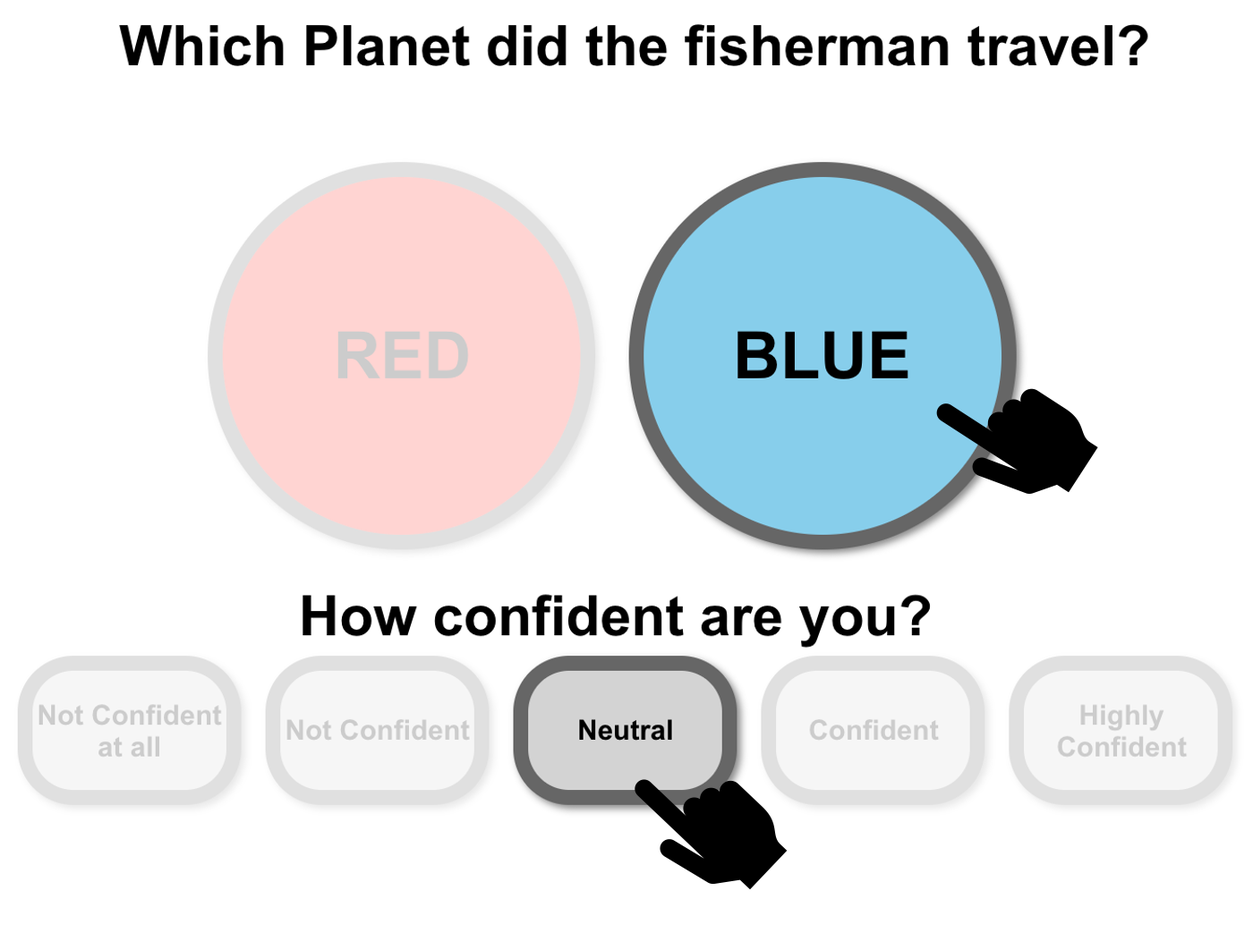
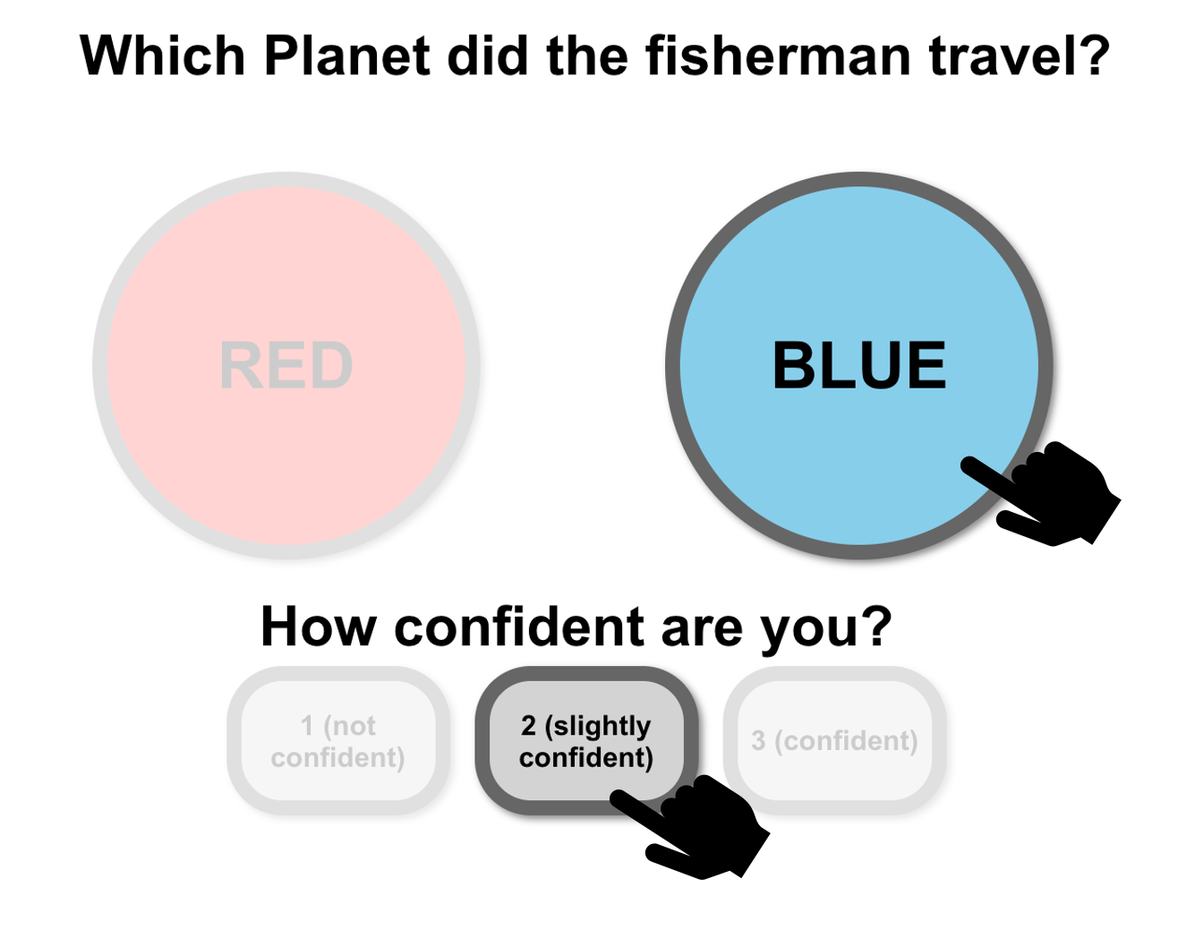
updates

diff --git a/client/src/components/GameFrame/GameFrame.js b/client/src/components/GameFrame/GameFrame.js
@@ -5,23 +5,31 @@ import Button from '../../components/Button/Button';
 import Action from '../Action/Action';
 import Scores from '../Scores/Scores';
 import classes from './GameFrame.module.css';
-
+import blueFishImage from '../../static/images/blue_fish.png';
+import redFishImage from '../../static/images/red_fish.png';
     
 
 
 const GameFrame = props => {
 
     
+
+    
     const colors = {red: 'RED', deepskyblue: 'BLUE'};
     const dispatch = useDispatch();
     const scenario = useSelector(state => state.conditionData.conditionData[state.conditionData.conditionNumber]);
+    const fish = scenario.targetBelief;
 
+    const displayFish = {'red': ['', 'none'],
+                         'deepskyblue': ['none', '']};
 
     const setColors = () => {
         setColorB(scenario.neighbourBeliefs.a[scoreCounter]);
         setColorC(scenario.neighbourBeliefs.b[scoreCounter]);
-        setColorMessageB(colors[scenario.neighbourBeliefs.a[scoreCounter]]);
-        setColorMessageC(colors[scenario.neighbourBeliefs.b[scoreCounter]]);
+        // setOpacityB(scenario.neighbourBeliefs.ac[scoreCounter]);
+        // setOpacityC(scenario.neighbourBeliefs.bc[scoreCounter]);
+        setColorMessageB(scenario.neighbourBeliefs.ac[scoreCounter]);
+        setColorMessageC(scenario.neighbourBeliefs.bc[scoreCounter]);
         setDisplayObserve('none');
         setDisplayNext('');
     };
@@ -29,6 +37,8 @@ const GameFrame = props => {
     const resetColors = () => {
         setColorB('lightgrey');
         setColorC('lightgrey');
+        setOpacityB(1);
+        setOpacityC(1);
         setColorMessageB('?')
         setColorMessageC('?')
         setDisplayObserve('')
@@ -73,6 +83,8 @@ const GameFrame = props => {
 
     const [colorB, setColorB] = useState('lightgrey')
     const [colorC, setColorC] = useState('lightgrey')
+    const [opacityB, setOpacityB] = useState(1)
+    const [opacityC, setOpacityC] = useState(1)
     const [sayColorB, setColorMessageB] = useState('?')
     const [sayColorC, setColorMessageC] = useState('?')
     const [displayObserve, setDisplayObserve] = useState('true')
@@ -140,9 +152,22 @@ const GameFrame = props => {
              {props.children}
             {/* game interface */}
             <Agent width={'400px'} agent_id="instr_frame" >BELIEFS OF VILLAGERS</Agent> 
-            
+
+            {/* legend */}
+            <Agent width={'200px'} top={'40%'} left={'2%'} agent_id="legend" >LEGEND:</Agent> 
+            <Agent width={'200px'} top={'45%'} left={'2%'} agent_id="legend" >1: not confident</Agent> 
+            <Agent width={'200px'} top={'50%'} left={'2%'} agent_id="legend" >2: slightly confident</Agent> 
+            <Agent width={'200px'} top={'55%'} left={'2%'} agent_id="legend" >3: confident</Agent> 
+            <Agent width={'200px'} top={'65%'} left={'2%'} agent_id="legend" >YOUR FISH:</Agent> 
+            <Agent width={'100px'} top={'66.5%'} left={'8%'} agent_id="Fish" display={displayFish[fish][0]}>
+            <img position={'absolute'} left={'80%'} top={'50%'} height={'50px'} src={redFishImage} alt="fish"/>
+            </Agent>
+            <Agent width={'100px'} top={'66.5%'} left={'8%'} agent_id="Fish" display={displayFish[fish][1]}>
+            <img position={'absolute'} left={'80%'} top={'50%'} height={'50px'} src={blueFishImage} alt="fish"/>
+            </Agent>
+
             {/* agent B */}
-            <Agent color={colorB} agent_id="B_2">{sayColorB}</Agent>
+            <Agent color={colorB}  agent_id="B_2">{sayColorB}</Agent>
             <Agent agent_id="B_2name">{scenario.neighbour1Name.name}</Agent>
 
             
@@ -156,30 +181,30 @@ const GameFrame = props => {
             <Scores score_id="C_name" >{scenario.neighbour2Name.name}</Scores>
 
             {/* B Scores */}
-            <Scores background={scenario.neighbourBeliefs.a[0]} id="B1" score_id="B1" display={displayB1}></Scores> 
-            <Scores background={scenario.neighbourBeliefs.a[1]} id="B2" score_id="B1" display={displayB2}  top={'17%'} ></Scores> 
-            <Scores background={scenario.neighbourBeliefs.a[2]} id="B3" score_id="B1" display={displayB3} top={'24%'} ></Scores>  
-            <Scores background={scenario.neighbourBeliefs.a[3]} id="B4" score_id="B1" display={displayB4} top={'31%'} ></Scores> 
-            <Scores background={scenario.neighbourBeliefs.a[4]} id="B5" score_id="B1" display={displayB5} top={'39%'} ></Scores> 
-            <Scores background={scenario.neighbourBeliefs.a[5]} id="B6" score_id="B1" display={displayB6} top={'46%'} ></Scores> 
-            <Scores background={scenario.neighbourBeliefs.a[6]} id="B7" score_id="B1" display={displayB7} top={'53%'} ></Scores> 
-            <Scores background={scenario.neighbourBeliefs.a[7]} id="B8" score_id="B1" display={displayB8} top={'60%'} ></Scores> 
-            <Scores background={scenario.neighbourBeliefs.a[8]} id="B9" score_id="B1" display={displayB9} top={'67%'} ></Scores> 
-            <Scores background={scenario.neighbourBeliefs.a[9]} id="B10" score_id="B1" display={displayB10} top={'74%'} ></Scores> 
+            <Scores background={scenario.neighbourBeliefs.a[0]} id="B1" score_id="B1" display={displayB1}>{scenario.neighbourBeliefs.ac[0].toString()}</Scores> 
+            <Scores background={scenario.neighbourBeliefs.a[1]} id="B2" score_id="B1" display={displayB2}  top={'17%'} >{scenario.neighbourBeliefs.ac[1].toString()}</Scores> 
+            <Scores background={scenario.neighbourBeliefs.a[2]} id="B3" score_id="B1" display={displayB3} top={'24%'} >{scenario.neighbourBeliefs.ac[2].toString()}</Scores>  
+            <Scores background={scenario.neighbourBeliefs.a[3]} id="B4" score_id="B1" display={displayB4} top={'31%'} >{scenario.neighbourBeliefs.ac[3].toString()}</Scores> 
+            <Scores background={scenario.neighbourBeliefs.a[4]} id="B5" score_id="B1" display={displayB5} top={'39%'} >{scenario.neighbourBeliefs.ac[4].toString()}</Scores> 
+            <Scores background={scenario.neighbourBeliefs.a[5]} id="B6" score_id="B1" display={displayB6} top={'46%'} >{scenario.neighbourBeliefs.ac[5].toString()}</Scores> 
+            <Scores background={scenario.neighbourBeliefs.a[6]} id="B7" score_id="B1" display={displayB7} top={'53%'} >{scenario.neighbourBeliefs.ac[6].toString()}</Scores> 
+            <Scores background={scenario.neighbourBeliefs.a[7]} id="B8" score_id="B1" display={displayB8} top={'60%'} >{scenario.neighbourBeliefs.ac[7].toString()}</Scores> 
+            <Scores background={scenario.neighbourBeliefs.a[8]} id="B9" score_id="B1" display={displayB9} top={'67%'} >{scenario.neighbourBeliefs.ac[8].toString()}</Scores> 
+            <Scores background={scenario.neighbourBeliefs.a[9]} id="B10" score_id="B1" display={displayB10} top={'74%'} >{scenario.neighbourBeliefs.ac[9].toString()}</Scores> 
 
     
 
             {/* C scores  */}
-            <Scores background={scenario.neighbourBeliefs.b[0]} id="C1" score_id="C1" display={displayC1}></Scores>  
-            <Scores background={scenario.neighbourBeliefs.b[1]} id="C2" score_id="C1" display={displayC2} top={'17%'}></Scores> 
-            <Scores background={scenario.neighbourBeliefs.b[2]} id="C3" score_id="C1" display={displayC3} top={'24%'} ></Scores> 
-            <Scores background={scenario.neighbourBeliefs.b[3]} id="C4" score_id="C1" display={displayC4} top={'31%'} ></Scores> 
-            <Scores background={scenario.neighbourBeliefs.b[4]} id="C5" score_id="C1" display={displayC5} top={'39%'} ></Scores> 
-            <Scores background={scenario.neighbourBeliefs.b[5]} id="C6" score_id="C1" display={displayC6} top={'46%'} ></Scores> 
-            <Scores background={scenario.neighbourBeliefs.b[6]} id="C7" score_id="C1" display={displayC7} top={'53%'} ></Scores> 
-            <Scores background={scenario.neighbourBeliefs.b[7]} id="C8" score_id="C1" display={displayC8} top={'60%'} ></Scores> 
-            <Scores background={scenario.neighbourBeliefs.b[8]} id="C9" score_id="C1" display={displayC9} top={'67%'} ></Scores> 
-            <Scores background={scenario.neighbourBeliefs.b[9]} id="C10" score_id="C1" display={displayC10} top={'74%'} ></Scores>   
+            <Scores background={scenario.neighbourBeliefs.b[0]} id="C1" score_id="C1" display={displayC1}>{scenario.neighbourBeliefs.bc[0].toString()}</Scores>  
+            <Scores background={scenario.neighbourBeliefs.b[1]} id="C2" score_id="C1" display={displayC2} top={'17%'}>{scenario.neighbourBeliefs.bc[1].toString()}</Scores> 
+            <Scores background={scenario.neighbourBeliefs.b[2]} id="C3" score_id="C1" display={displayC3} top={'24%'} >{scenario.neighbourBeliefs.bc[2].toString()}</Scores> 
+            <Scores background={scenario.neighbourBeliefs.b[3]} id="C4" score_id="C1" display={displayC4} top={'31%'} >{scenario.neighbourBeliefs.bc[3].toString()}</Scores> 
+            <Scores background={scenario.neighbourBeliefs.b[4]} id="C5" score_id="C1" display={displayC5} top={'39%'} >{scenario.neighbourBeliefs.bc[4].toString()}</Scores> 
+            <Scores background={scenario.neighbourBeliefs.b[5]} id="C6" score_id="C1" display={displayC6} top={'46%'} >{scenario.neighbourBeliefs.bc[5].toString()}</Scores> 
+            <Scores background={scenario.neighbourBeliefs.b[6]} id="C7" score_id="C1" display={displayC7} top={'53%'} >{scenario.neighbourBeliefs.bc[6].toString()}</Scores> 
+            <Scores background={scenario.neighbourBeliefs.b[7]} id="C8" score_id="C1" display={displayC8} top={'60%'} >{scenario.neighbourBeliefs.bc[7].toString()}</Scores> 
+            <Scores background={scenario.neighbourBeliefs.b[8]} id="C9" score_id="C1" display={displayC9} top={'67%'} >{scenario.neighbourBeliefs.bc[8].toString()}</Scores> 
+            <Scores background={scenario.neighbourBeliefs.b[9]} id="C10" score_id="C1" display={displayC10} top={'74%'} >{scenario.neighbourBeliefs.bc[9].toString()}</Scores>   
 
     
 

diff --git a/client/src/components/PlanetFrame/PlanetFrame.js b/client/src/components/PlanetFrame/PlanetFrame.js
@@ -127,11 +127,11 @@ const PlanetFrame = props => {
             
 
             {/* Confidence */}
-            <Action display={confDisplay}  onClick={selectVeryLowConfidence} opacity={veryLowConfidence} action_id='ConfidenceVeryLow'>Not Confident at all</Action>
-            <Action display={confDisplay}  onClick={selectLowConfidence} opacity={lowConfidence} action_id='ConfidenceLow'>Not Confident</Action>
-            <Action display={confDisplay}  onClick={selectMediumConfidence} opacity={mediumConfidence} action_id='ConfidenceMedium'>Neutral</Action>
-            <Action display={confDisplay}  onClick={selectHighConfidence} opacity={highConfidence} action_id='ConfidenceHigh'>Confident</Action>
-            <Action display={confDisplay}  onClick={selectVeryHighConfidence} opacity={veryHighConfidence} action_id='ConfidenceVeryHigh'>Highly Confident</Action>
+            {/* <Action display={confDisplay}  onClick={selectVeryLowConfidence} opacity={veryLowConfidence} action_id='ConfidenceVeryLow'>Not Confident at all</Action> */}
+            <Action display={confDisplay}  onClick={selectLowConfidence} opacity={lowConfidence} action_id='ConfidenceLow'>1 (not confident)</Action>
+            <Action display={confDisplay}  onClick={selectMediumConfidence} opacity={mediumConfidence} action_id='ConfidenceMedium'>2 (slightly confident)</Action>
+            <Action display={confDisplay}  onClick={selectHighConfidence} opacity={highConfidence} action_id='ConfidenceHigh'>3 (confident)</Action>
+            {/* <Action display={confDisplay}  onClick={selectVeryHighConfidence} opacity={veryHighConfidence} action_id='ConfidenceVeryHigh'>Highly Confident</Action> */}
 
             {/* Scores */}
             {/* score history */}
@@ -139,33 +139,34 @@ const PlanetFrame = props => {
             <Scores score_id="B_name" >{scenario.neighbour1Name.name}</Scores>
             <Scores score_id="C_name" >{scenario.neighbour2Name.name}</Scores>
 
+           
             {/* B Scores */}
-            <Scores background={scenario.neighbourBeliefs.a[0]} id="B1" score_id="B1" ></Scores> 
-            <Scores background={scenario.neighbourBeliefs.a[1]} id="B2" score_id="B1"   top={'17%'} ></Scores> 
-            <Scores background={scenario.neighbourBeliefs.a[2]} id="B3" score_id="B1"  top={'24%'} ></Scores>  
-            <Scores background={scenario.neighbourBeliefs.a[3]} id="B4" score_id="B1"  top={'31%'} ></Scores> 
-            <Scores background={scenario.neighbourBeliefs.a[4]} id="B5" score_id="B1"  top={'39%'} ></Scores> 
-            <Scores background={scenario.neighbourBeliefs.a[5]} id="B6" score_id="B1" top={'46%'} ></Scores> 
-            <Scores background={scenario.neighbourBeliefs.a[6]} id="B7" score_id="B1" top={'53%'} ></Scores> 
-            <Scores background={scenario.neighbourBeliefs.a[7]} id="B8" score_id="B1"  top={'60%'} ></Scores> 
-            <Scores background={scenario.neighbourBeliefs.a[8]} id="B9" score_id="B1"  top={'67%'} ></Scores> 
-            <Scores background={scenario.neighbourBeliefs.a[9]} id="B10" score_id="B1"  top={'74%'} ></Scores> 
+            <Scores background={scenario.neighbourBeliefs.a[0]} id="B1" score_id="B1" >{scenario.neighbourBeliefs.ac[0].toString()}</Scores> 
+            <Scores background={scenario.neighbourBeliefs.a[1]} id="B2" score_id="B1"   top={'17%'} >{scenario.neighbourBeliefs.ac[1].toString()}</Scores> 
+            <Scores background={scenario.neighbourBeliefs.a[2]} id="B3" score_id="B1"  top={'24%'} >{scenario.neighbourBeliefs.ac[2].toString()}</Scores>  
+            <Scores background={scenario.neighbourBeliefs.a[3]} id="B4" score_id="B1"  top={'31%'} >{scenario.neighbourBeliefs.ac[3].toString()}</Scores> 
+            <Scores background={scenario.neighbourBeliefs.a[4]} id="B5" score_id="B1"  top={'39%'} >{scenario.neighbourBeliefs.ac[4].toString()}</Scores> 
+            <Scores background={scenario.neighbourBeliefs.a[5]} id="B6" score_id="B1"  top={'46%'} >{scenario.neighbourBeliefs.ac[5].toString()}</Scores> 
+            <Scores background={scenario.neighbourBeliefs.a[6]} id="B7" score_id="B1"  top={'53%'} >{scenario.neighbourBeliefs.ac[6].toString()}</Scores> 
+            <Scores background={scenario.neighbourBeliefs.a[7]} id="B8" score_id="B1"  top={'60%'} >{scenario.neighbourBeliefs.ac[7].toString()}</Scores> 
+            <Scores background={scenario.neighbourBeliefs.a[8]} id="B9" score_id="B1" top={'67%'} >{scenario.neighbourBeliefs.ac[8].toString()}</Scores> 
+            <Scores background={scenario.neighbourBeliefs.a[9]} id="B10" score_id="B1" top={'74%'} >{scenario.neighbourBeliefs.ac[9].toString()}</Scores> 
 
-    
     
 
             {/* C scores  */}
-            <Scores background={scenario.neighbourBeliefs.b[0]} id="C1" score_id="C1" ></Scores>  
-            <Scores background={scenario.neighbourBeliefs.b[1]} id="C2" score_id="C1"  top={'17%'}></Scores> 
-            <Scores background={scenario.neighbourBeliefs.b[2]} id="C3" score_id="C1"  top={'24%'} ></Scores> 
-            <Scores background={scenario.neighbourBeliefs.b[3]} id="C4" score_id="C1"  top={'31%'} ></Scores> 
-            <Scores background={scenario.neighbourBeliefs.b[4]} id="C5" score_id="C1"  top={'39%'} ></Scores> 
-            <Scores background={scenario.neighbourBeliefs.b[5]} id="C6" score_id="C1"  top={'46%'} ></Scores> 
-            <Scores background={scenario.neighbourBeliefs.b[6]} id="C7" score_id="C1"  top={'53%'} ></Scores> 
-            <Scores background={scenario.neighbourBeliefs.b[7]} id="C8" score_id="C1"  top={'60%'} ></Scores> 
-            <Scores background={scenario.neighbourBeliefs.b[8]} id="C9" score_id="C1"  top={'67%'} ></Scores> 
-            <Scores background={scenario.neighbourBeliefs.b[9]} id="C10" score_id="C1"  top={'74%'} ></Scores>   
+            <Scores background={scenario.neighbourBeliefs.b[0]} id="C1" score_id="C1" >{scenario.neighbourBeliefs.bc[0].toString()}</Scores>  
+            <Scores background={scenario.neighbourBeliefs.b[1]} id="C2" score_id="C1"  top={'17%'}>{scenario.neighbourBeliefs.bc[1].toString()}</Scores> 
+            <Scores background={scenario.neighbourBeliefs.b[2]} id="C3" score_id="C1"  top={'24%'} >{scenario.neighbourBeliefs.bc[2].toString()}</Scores> 
+            <Scores background={scenario.neighbourBeliefs.b[3]} id="C4" score_id="C1"  top={'31%'} >{scenario.neighbourBeliefs.bc[3].toString()}</Scores> 
+            <Scores background={scenario.neighbourBeliefs.b[4]} id="C5" score_id="C1"  top={'39%'} >{scenario.neighbourBeliefs.bc[4].toString()}</Scores> 
+            <Scores background={scenario.neighbourBeliefs.b[5]} id="C6" score_id="C1" top={'46%'} >{scenario.neighbourBeliefs.bc[5].toString()}</Scores> 
+            <Scores background={scenario.neighbourBeliefs.b[6]} id="C7" score_id="C1"  top={'53%'} >{scenario.neighbourBeliefs.bc[6].toString()}</Scores> 
+            <Scores background={scenario.neighbourBeliefs.b[7]} id="C8" score_id="C1"  top={'60%'} >{scenario.neighbourBeliefs.bc[7].toString()}</Scores> 
+            <Scores background={scenario.neighbourBeliefs.b[8]} id="C9" score_id="C1"  top={'67%'} >{scenario.neighbourBeliefs.bc[8].toString()}</Scores> 
+            <Scores background={scenario.neighbourBeliefs.b[9]} id="C10" score_id="C1" top={'74%'} >{scenario.neighbourBeliefs.bc[9].toString()}</Scores>   
 
+    
     
 
             

diff --git a/client/src/components/StructureFrame/StructureFrame.js b/client/src/components/StructureFrame/StructureFrame.js
@@ -114,34 +114,34 @@ const StructureFrame = props => {
             <Scores score_id="B_name" >{scenario.neighbour1Name.name}</Scores>
             <Scores score_id="C_name" >{scenario.neighbour2Name.name}</Scores>
 
+           
             {/* B Scores */}
-            <Scores background={scenario.neighbourBeliefs.a[0]} id="B1" score_id="B1" ></Scores> 
-            <Scores background={scenario.neighbourBeliefs.a[1]} id="B2" score_id="B1"   top={'17%'} ></Scores> 
-            <Scores background={scenario.neighbourBeliefs.a[2]} id="B3" score_id="B1"  top={'24%'} ></Scores>  
-            <Scores background={scenario.neighbourBeliefs.a[3]} id="B4" score_id="B1"  top={'31%'} ></Scores> 
-            <Scores background={scenario.neighbourBeliefs.a[4]} id="B5" score_id="B1"  top={'39%'} ></Scores> 
-            <Scores background={scenario.neighbourBeliefs.a[5]} id="B6" score_id="B1" top={'46%'} ></Scores> 
-            <Scores background={scenario.neighbourBeliefs.a[6]} id="B7" score_id="B1" top={'53%'} ></Scores> 
-            <Scores background={scenario.neighbourBeliefs.a[7]} id="B8" score_id="B1"  top={'60%'} ></Scores> 
-            <Scores background={scenario.neighbourBeliefs.a[8]} id="B9" score_id="B1"  top={'67%'} ></Scores> 
-            <Scores background={scenario.neighbourBeliefs.a[9]} id="B10" score_id="B1"  top={'74%'} ></Scores> 
+            <Scores background={scenario.neighbourBeliefs.a[0]} id="B1" score_id="B1" >{scenario.neighbourBeliefs.ac[0].toString()}</Scores> 
+            <Scores background={scenario.neighbourBeliefs.a[1]} id="B2" score_id="B1"  top={'17%'} >{scenario.neighbourBeliefs.ac[1].toString()}</Scores> 
+            <Scores background={scenario.neighbourBeliefs.a[2]} id="B3" score_id="B1" top={'24%'} >{scenario.neighbourBeliefs.ac[2].toString()}</Scores>  
+            <Scores background={scenario.neighbourBeliefs.a[3]} id="B4" score_id="B1" top={'31%'} >{scenario.neighbourBeliefs.ac[3].toString()}</Scores> 
+            <Scores background={scenario.neighbourBeliefs.a[4]} id="B5" score_id="B1"  top={'39%'} >{scenario.neighbourBeliefs.ac[4].toString()}</Scores> 
+            <Scores background={scenario.neighbourBeliefs.a[5]} id="B6" score_id="B1" top={'46%'} >{scenario.neighbourBeliefs.ac[5].toString()}</Scores> 
+            <Scores background={scenario.neighbourBeliefs.a[6]} id="B7" score_id="B1" top={'53%'} >{scenario.neighbourBeliefs.ac[6].toString()}</Scores> 
+            <Scores background={scenario.neighbourBeliefs.a[7]} id="B8" score_id="B1" top={'60%'} >{scenario.neighbourBeliefs.ac[7].toString()}</Scores> 
+            <Scores background={scenario.neighbourBeliefs.a[8]} id="B9" score_id="B1"  top={'67%'} >{scenario.neighbourBeliefs.ac[8].toString()}</Scores> 
+            <Scores background={scenario.neighbourBeliefs.a[9]} id="B10" score_id="B1"  top={'74%'} >{scenario.neighbourBeliefs.ac[9].toString()}</Scores> 
 
-    
     
 
             {/* C scores  */}
-            <Scores background={scenario.neighbourBeliefs.b[0]} id="C1" score_id="C1" ></Scores>  
-            <Scores background={scenario.neighbourBeliefs.b[1]} id="C2" score_id="C1"  top={'17%'}></Scores> 
-            <Scores background={scenario.neighbourBeliefs.b[2]} id="C3" score_id="C1"  top={'24%'} ></Scores> 
-            <Scores background={scenario.neighbourBeliefs.b[3]} id="C4" score_id="C1"  top={'31%'} ></Scores> 
-            <Scores background={scenario.neighbourBeliefs.b[4]} id="C5" score_id="C1"  top={'39%'} ></Scores> 
-            <Scores background={scenario.neighbourBeliefs.b[5]} id="C6" score_id="C1"  top={'46%'} ></Scores> 
-            <Scores background={scenario.neighbourBeliefs.b[6]} id="C7" score_id="C1"  top={'53%'} ></Scores> 
-            <Scores background={scenario.neighbourBeliefs.b[7]} id="C8" score_id="C1"  top={'60%'} ></Scores> 
-            <Scores background={scenario.neighbourBeliefs.b[8]} id="C9" score_id="C1"  top={'67%'} ></Scores> 
-            <Scores background={scenario.neighbourBeliefs.b[9]} id="C10" score_id="C1"  top={'74%'} ></Scores>   
+            <Scores background={scenario.neighbourBeliefs.b[0]} id="C1" score_id="C1" >{scenario.neighbourBeliefs.bc[0].toString()}</Scores>  
+            <Scores background={scenario.neighbourBeliefs.b[1]} id="C2" score_id="C1"  top={'17%'}>{scenario.neighbourBeliefs.bc[1].toString()}</Scores> 
+            <Scores background={scenario.neighbourBeliefs.b[2]} id="C3" score_id="C1"  top={'24%'} >{scenario.neighbourBeliefs.bc[2].toString()}</Scores> 
+            <Scores background={scenario.neighbourBeliefs.b[3]} id="C4" score_id="C1"  top={'31%'} >{scenario.neighbourBeliefs.bc[3].toString()}</Scores> 
+            <Scores background={scenario.neighbourBeliefs.b[4]} id="C5" score_id="C1"  top={'39%'} >{scenario.neighbourBeliefs.bc[4].toString()}</Scores> 
+            <Scores background={scenario.neighbourBeliefs.b[5]} id="C6" score_id="C1"  top={'46%'} >{scenario.neighbourBeliefs.bc[5].toString()}</Scores> 
+            <Scores background={scenario.neighbourBeliefs.b[6]} id="C7" score_id="C1"  top={'53%'} >{scenario.neighbourBeliefs.bc[6].toString()}</Scores> 
+            <Scores background={scenario.neighbourBeliefs.b[7]} id="C8" score_id="C1"  top={'60%'} >{scenario.neighbourBeliefs.bc[7].toString()}</Scores> 
+            <Scores background={scenario.neighbourBeliefs.b[8]} id="C9" score_id="C1"  top={'67%'} >{scenario.neighbourBeliefs.bc[8].toString()}</Scores> 
+            <Scores background={scenario.neighbourBeliefs.b[9]} id="C10" score_id="C1" top={'74%'} >{scenario.neighbourBeliefs.bc[9].toString()}</Scores>   
 
-            
+    
           
 
             <Action action_id="border_frame"></Action>

diff --git a/client/src/store/reducers/conditionData.js b/client/src/store/reducers/conditionData.js
@@ -10,31 +10,47 @@ const targetBeliefOrder = [shuffle([0,1]),shuffle([0,1])];
 
 const neighbourBeliefs = {
     independent: [
-        { a: ['red','red','red','red','red','red','red','red','red','red'], 
-          b: ['deepskyblue','deepskyblue','deepskyblue','deepskyblue','deepskyblue','deepskyblue','deepskyblue','deepskyblue','deepskyblue','deepskyblue']},
-        { b:['red','red','red','red','red','red','red','red','red','red'], 
-          a: ['deepskyblue','deepskyblue','deepskyblue','deepskyblue','deepskyblue','deepskyblue','deepskyblue','deepskyblue','deepskyblue','deepskyblue']}
-    ],
+        { a: ['red','deepskyblue','red','deepskyblue','deepskyblue','deepskyblue','deepskyblue','deepskyblue','deepskyblue','deepskyblue'], 
+          ac: [1,1,1, 3,3,3,3,3,3,3],
+          b: ['red', 'deepskyblue','red','red','red','red','red','red','red','red'],
+          bc: [1,1,1, 3,3,3,3,3,3,3]},
+        { a: ['red','deepskyblue','red','deepskyblue','deepskyblue','deepskyblue','deepskyblue','deepskyblue','deepskyblue','deepskyblue'], 
+          ac: [1,1,1, 3,3,3,3,3,3,3],
+          b: ['red', 'deepskyblue','red','red','red','red','red','red','red','red'],
+          bc: [1,1,1, 3,3,3,3,3,3,3]}
+        ],
 
     lr: [
-        { a: ['red','red','red','red','red','red','red','red','red','red'], 
-          b: ['deepskyblue','deepskyblue','deepskyblue','deepskyblue','red','red','red','red','red','red']},
-        { b:['red','red','red','red','red','red','red','red','red','red'], 
-          a: ['deepskyblue','deepskyblue','deepskyblue','deepskyblue','red','red','red','red','red','red']}
+        { a: ['red','deepskyblue','red','deepskyblue','deepskyblue','deepskyblue','deepskyblue','deepskyblue','deepskyblue','deepskyblue'], 
+          ac: [1,1,1, 3,3,3,3,3,3,3],
+          b: ['red','deepskyblue','red','red','deepskyblue','deepskyblue','red','deepskyblue','deepskyblue','deepskyblue'], 
+          bc: [1,1,1,1, 1, 3, 1,1, 1, 2]},
+        { a: ['red','deepskyblue','red','deepskyblue','deepskyblue','deepskyblue','deepskyblue','deepskyblue','deepskyblue','deepskyblue'], 
+          ac: [1,1,1, 3,3,3,3,3,3,3],
+          b: ['red','deepskyblue','red','red','deepskyblue','deepskyblue','red','deepskyblue','deepskyblue','deepskyblue'], 
+          bc: [1,1,1,1, 1, 3, 1,1, 1, 2]}
     ],
 
     rl: [
-        { a: ['red','red','red','red','deepskyblue','deepskyblue','deepskyblue','deepskyblue','deepskyblue','deepskyblue'], 
-          b: ['deepskyblue','deepskyblue','deepskyblue','deepskyblue','deepskyblue','deepskyblue','deepskyblue','deepskyblue','deepskyblue','deepskyblue']},
-        { b:['red','red','red','red','deepskyblue','deepskyblue','deepskyblue','deepskyblue','deepskyblue','deepskyblue'], 
-          a: ['deepskyblue','deepskyblue','deepskyblue','deepskyblue','deepskyblue','deepskyblue','deepskyblue','deepskyblue','deepskyblue','deepskyblue']}
+      { a: ['red','deepskyblue','red','red','red','red','deepskyblue','red','red','red'], 
+        ac: [1,1,1,1, 1, 2, 1,1, 1, 2],
+        b: ['red','deepskyblue','red','red','red','red','red','red','red','red'], 
+        bc: [1,1,1, 3, 3, 3, 3, 3, 3, 3]},
+        { a: ['red','deepskyblue','deepskyblue','deepskyblue','red','red','deepskyblue','red','red','red'], 
+        ac: [1,1,1,1, 1, 2, 1,1, 1, 2],
+        b: ['red','deepskyblue','deepskyblue','red','red','red','red','red','red','red'], 
+        bc: [1,1,1, 3, 3, 3, 3, 3, 3, 3]}
     ],
 
     both: [
-        { a: ['red','red','red','red','deepskyblue','red','red','red','red','red'], 
-          b: ['deepskyblue','deepskyblue','deepskyblue','deepskyblue','red','red','red','red','red','red']},
-        { b:['red','red','red','red','deepskyblue','red','red','red','red','red'], 
-          a: ['deepskyblue','deepskyblue','deepskyblue','deepskyblue','red','red','red','red','red','red']}
+      { a: ['red','deepskyblue','red','deepskyblue','deepskyblue','deepskyblue','deepskyblue','deepskyblue','deepskyblue','deepskyblue'], 
+        ac: [1, 1, 1, 3, 2, 2, 1, 1, 1, 1],
+        b: ['red','deepskyblue','red','red','red','red','red','red','red','red'], 
+        bc: [1, 1, 1, 3, 2, 2, 1, 1, 1, 1]},
+        { a: ['red','deepskyblue','red','deepskyblue','deepskyblue','deepskyblue','deepskyblue','deepskyblue','deepskyblue','deepskyblue'], 
+        ac: [1, 1, 1, 3, 2, 2, 1, 1, 1, 1],
+        b: ['red','deepskyblue','red','red','red','red','red','red','red','red'], 
+        bc: [1, 1, 1, 3, 2, 2, 1, 1, 1, 1]}
     ]
 };
 

diff --git a/client/src/containers/Instruction/InsTask2.js b/client/src/containers/Instruction/InsTask2.js
@@ -4,6 +4,7 @@ import relationshipImage from '../../static/images/select_relationship.png';
 import planetImage from '../../static/images/select_planet.png';
 import fishImage from '../../static/images/fish.png';
 import observeImage from '../../static/images/observe_beliefs.png';
+import confImage from '../../static/images/confidence_meaning.png';
 import Classes from '../../SASS/containers/Instruction/InsTask2.module.scss';
 import ScrollDivision from '../../components/ScrollDivision/ScrollDivision';
 
@@ -34,6 +35,8 @@ const InsTask= props => {
                 <img src={fishImage} alt="planets"/><br></br><br></br>
                 <p>You then observe the beliefs of villagers by clicking the ``<b>Observe Beliefs</b>'' button:</p><br></br>
                 <img src={observeImage} alt="planets"/><br></br><br></br>
+                <p>Beliefs of villagers can either be blue or red. In addition to their beliefs, villagers also tell you how confident they are in their beliefs on a <b>scale from 1-3</b>. Specifically, they can be 1: not confident; 2: slightly confident; or 4: confident. The <b>more confident</b> they are, the more likely they think the space fisherman travelled to the planet they selected. The confidence is displayed together with their beliefs:</p><br></br>
+                <img src={confImage} alt="planets"/><br></br><br></br>
                 <p>After observing the beliefs of villagers, you will provide a <b>guess about their relationship</b>:</p><br></br>
                 <img src={relationshipImage} alt="planets"/><br></br><br></br>
                 <p>Finally, you will be asked to select one of the two planets and rate <b>how confident</b> your are in your decision:</p>

diff --git a/client/src/components/Scores/Scores.js b/client/src/components/Scores/Scores.js
@@ -4,7 +4,7 @@ import classes from './Scores.module.css';
 
 const Scores = props => {
     return (
-        <div className={[classes.Scores,classes[props.score_id]].join(" ")} style={{background: props.background, position: props.position, top: props.top, display: props.display}}>
+        <div className={[classes.Scores,classes[props.score_id]].join(" ")} style={{background: props.background, position: props.position, top: props.top, display: props.display, opacity: props.opacity}}>
         {props.children}
   
         </div>

diff --git a/client/src/components/Agent/Agent.module.css b/client/src/components/Agent/Agent.module.css
@@ -267,3 +267,18 @@
     background: transparent;
 	box-shadow: 0px 0px 0px #888;
 }
+
+/* frame above agents for instructions etc. */
+.legend {
+    position:absolute;
+    left:15%;
+    top:80%; 
+    width: 350px;
+    height: 20px;
+    font: 15px Arial, sans-serif;
+    font-weight: bold;
+    border-style: none!important;
+    text-align: left;
+    background: transparent;
+	box-shadow: 0px 0px 0px #888;
+}

diff --git a/client/src/constants/Data/SCENARIOS.js b/client/src/constants/Data/SCENARIOS.js
@@ -41,8 +41,8 @@ export default class Scenario {
         ]);
 
         this.planetPosition = shuffle([
-            '12%',
-            '34%'
+            '8%',
+            '38%'
         ]);
 
     }

diff --git a/client/src/components/Scores/Scores.module.css b/client/src/components/Scores/Scores.module.css
@@ -12,7 +12,6 @@
 /* score objects */
 .B1 {
     position: absolute;
-  
     left:74%;
     top:10%; 
     width: 1.5rem;
